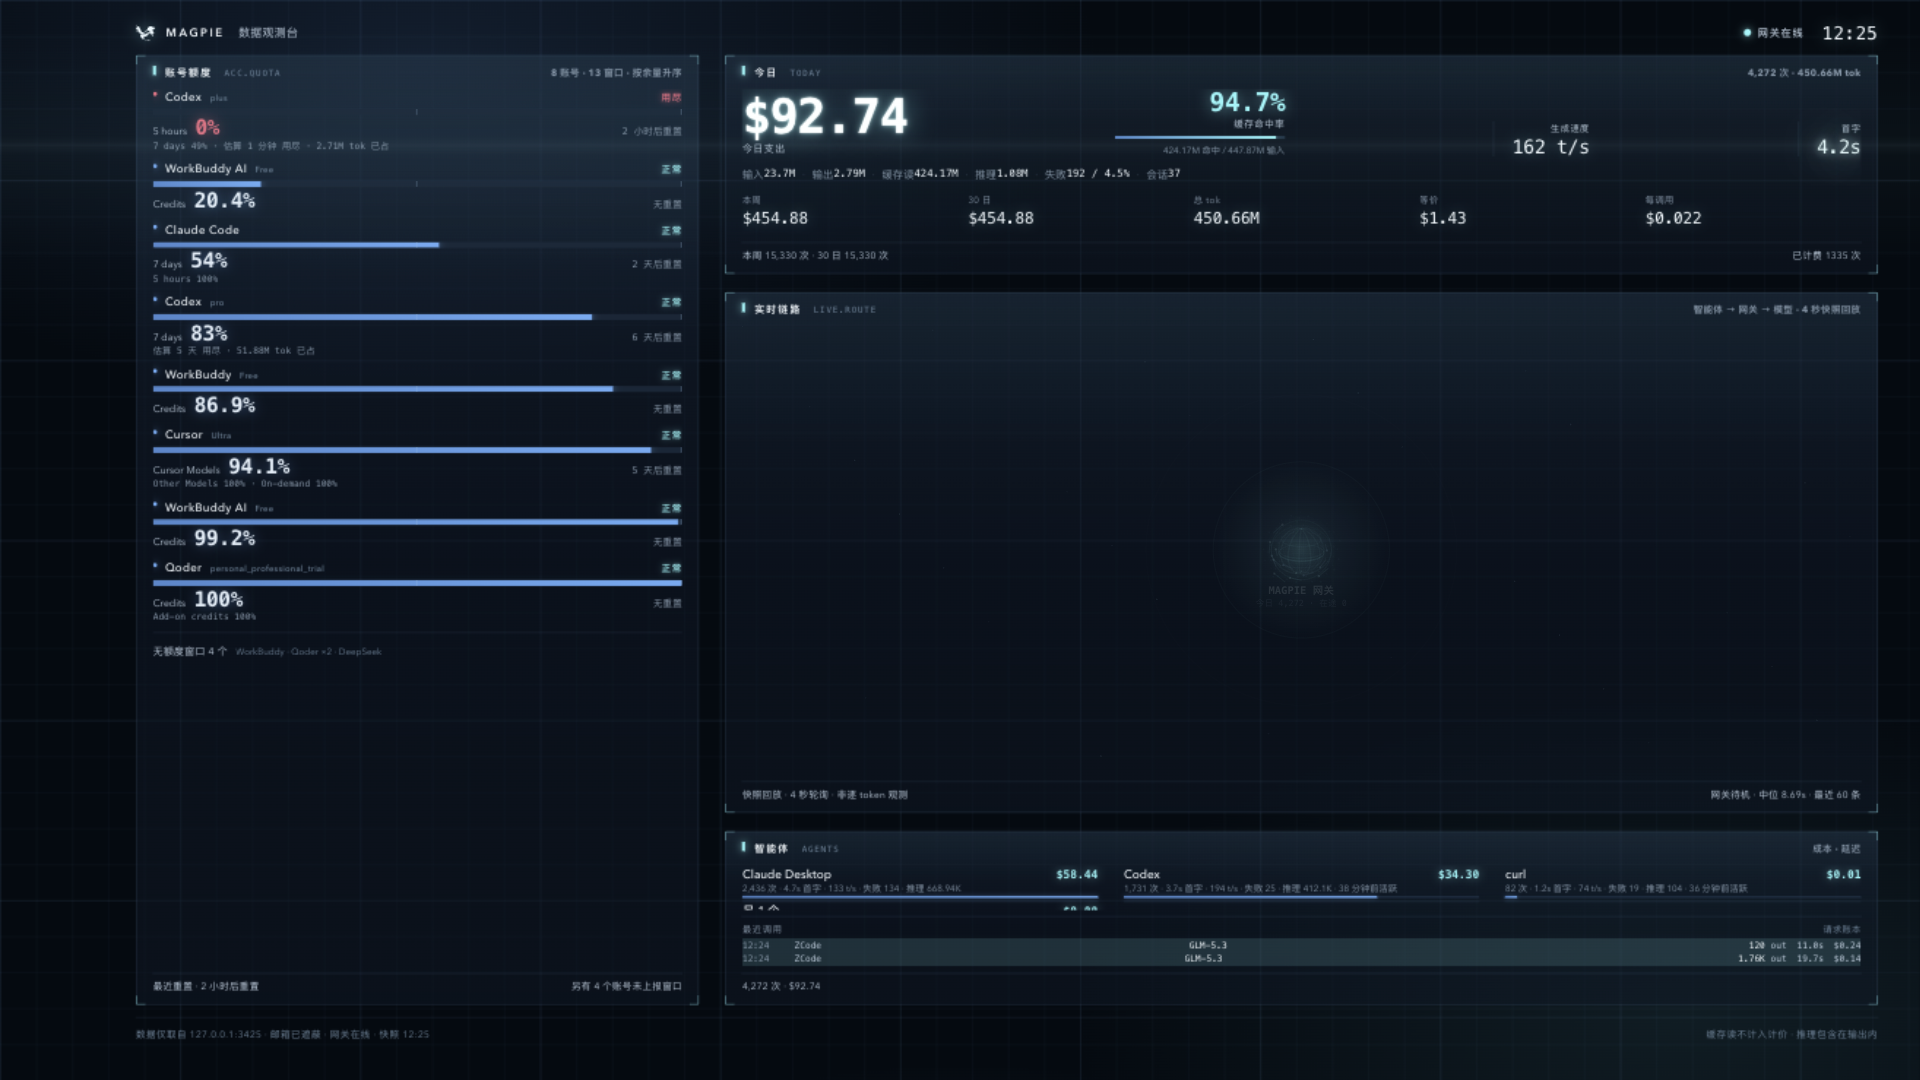
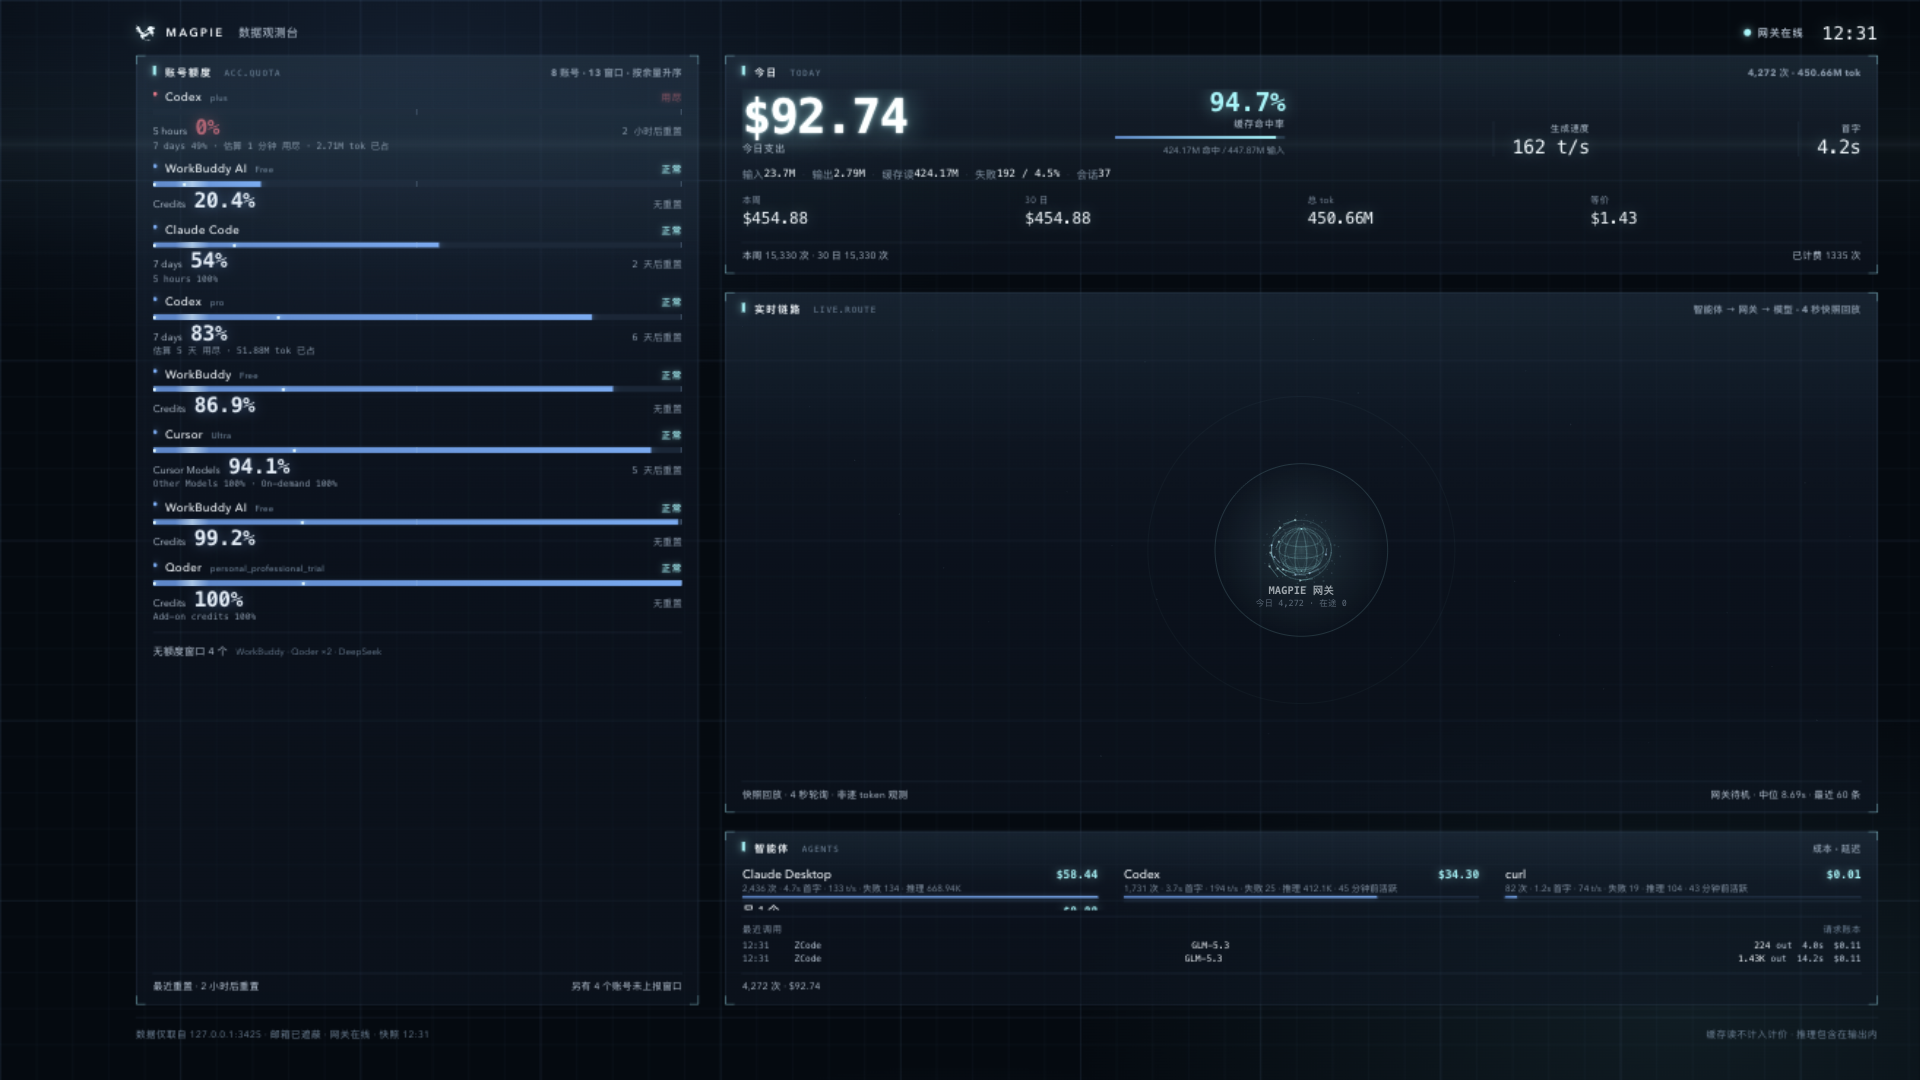
粒子荧光与降噪：燃料条电流粒子、节奏图火花与错误标记、网关铭牌

diff --git a/design/dashboard.js b/design/dashboard.js
@@ -132,9 +132,9 @@
     put('mini-speed', today.decode_ms ? Math.round(today.decode_out / (today.decode_ms / 1000)) + ' t/s' : '—');
     put('mini-ttft', today.timed ? (today.ttft_ms / today.timed / 1000).toFixed(1) + 's' : '—');
 
-    // 流程一行：只用一维读数，失败带比率。
+    // 流程一行：只用一维读数，失败带比率（推理含在输出内，不重复列）。
     const flow = [['输入', compact(today.input)], ['输出', compact(today.output)],
-                  ['缓存读', compact(today.cache_read)], ['推理', compact(today.reasoning)],
+                  ['缓存读', compact(today.cache_read)],
                   ['失败', integer(today.errors) + ' / ' + pct(share(today.errors, today.calls))],
                   ['会话', integer(today.sessionCount)]];
     $('flow').innerHTML = flow.map(([k, v]) => `${k} <b>${v}</b>`).join('<i>·</i>');
@@ -142,8 +142,7 @@
     const cells = [
       ['本周', money(week && week.cost)], ['30 日', money(month && month.cost)],
       ['总 tok', compact((today.input || 0) + (today.output || 0) + (today.cache_read || 0))],
-      ['等价', ds.length ? '$' + usd.toFixed(usd < 1 ? 3 : 2) : '—'],
-      ['每调用', today.calls ? '$' + (today.cost / today.calls).toFixed(3) : '—']
+      ['等价', ds.length ? '$' + usd.toFixed(usd < 1 ? 3 : 2) : '—']
     ];
     keyed($('cells'), cells, ([k]) => k,
       () => { const d = el('div'); d.append(el('span'), el('b')); return d; },
@@ -181,7 +180,9 @@
         const cur = i === hours.length - 1;
         node.style.height = Math.max(3, share(h.calls || 0, maxCalls)) + '%';
         node.className = cur ? 'cur' : ((h.calls || 0) ? '' : 'zero');
-        node.title = h.label + ' 时 · ' + integer(h.calls) + ' 次 · ' + money(h.cost);
+        if (h.errors) node.className = (cur ? 'cur' : '') + ' err';
+        node.title = h.label + ' 时 · ' + integer(h.calls) + ' 次 · ' + money(h.cost)
+          + (h.errors ? ' · 失败 ' + integer(h.errors) : '');
       });
     box.querySelector('.rhythm-head b').textContent = hours.length
       ? '峰值 ' + integer(peak.calls || 0) + ' 次 · ' + peak.label + ' 时'
@@ -243,7 +244,9 @@
         const head = el('h3');
         head.append(el('b'), el('i'), el('em'));
         const bar = el('div', 'q-bar');
-        bar.append(el('i'));
+        const fill = el('i');
+        fill.append(el('span', null), el('span', 'qp2'));   // 电流粒子
+        bar.append(fill);
         const main = el('div', 'q-main');
         main.append(el('b'), el('em'), el('span'));
         box.append(head, bar, main, el('div', 'q-sub'));
@@ -326,7 +329,7 @@
       !!nearest && (new Date(nearest.resetsAt) - Date.now()) / 60000 < 90);
     $('quota-foot2').textContent = noWin
       ? '另有 ' + noWin + ' 个账号未上报窗口'
-      : (fastest ? '最快燃尽 · ' + fastest.name + ' · 估算 ' + etaText(fastest.etaH) + ' 用尽' : '全部账号均已上报窗口');
+      : (fastest ? '最快燃尽 · ' + fastest.name + ' · 估算 ' + etaText(fastest.etaH) + ' 用尽' : '');
     $('quota-foot2').classList.toggle('soon', !noWin && !!fastest);
   }
 
@@ -1370,13 +1373,14 @@
 
   /* ── 主循环 ── */
   function paint(bundle) {
-    const { today, week, month, quotas, history, requests } = bundle;
+    const { today, week, month, quotas, history, requests, info } = bundle;
     renderToday(today, week, month);
     renderQuotas(quotas, history);
     renderAgents(today, readLive(bundle.trace));
     renderCalls(requests);
     renderRouteStage(bundle);
-    // 顶栏：网关状态灯 + 时钟；快照时间收进页脚。
+    // 顶栏：网关铭牌（版本 + 模型数）+ 状态灯 + 时钟。
+    $('gw-meta').textContent = info ? 'magpie v' + (info.version || '?') + ' · ' + (info.models || '?') + ' 模型' : '';
     $('gw-label').textContent = online ? '网关在线' : '网关离线';
     $('source-note').textContent = '数据仅取自 127.0.0.1:3425 · 邮箱已遮蔽 · ' +
       (online ? '网关在线' : '网关离线 · 保留上次数据') +
@@ -1386,7 +1390,7 @@
 
   async function refresh() {
     try {
-      const [today, week, month, quotas, trace, history, requests] = await Promise.all([
+      const [today, week, month, quotas, trace, history, requests, info] = await Promise.all([
         get('/v1/magpie/usage?period=today'),
         get('/v1/magpie/usage?period=7d'),
         get('/v1/magpie/usage?period=30d'),
@@ -1395,10 +1399,12 @@
         // 燃尽曲线数据：单独容错——拿不到只是少画一条线，不算离线。
         get('/v1/magpie/quotas/history').catch(() => null),
         // 请求账本：单独容错——拿不到只少两行明细。
-        get('/v1/magpie/usage/requests?period=today&limit=6').catch(() => null)
+        get('/v1/magpie/usage/requests?period=today&limit=6').catch(() => null),
+        // 网关铭牌（版本/模型数）：单独容错。
+        get('/').catch(() => null)
       ]);
       online = true;
-      lastGood = { today, week, month, quotas, trace, history, requests, at: Date.now() };
+      lastGood = { today, week, month, quotas, trace, history, requests, info, at: Date.now() };
       paint(lastGood);
     } catch (error) {
       online = false;

diff --git a/design/dashboard.css b/design/dashboard.css
@@ -155,6 +155,8 @@ header {
   min-width: 0;
 }
 
+.gw-meta { font-family: var(--mono); color: var(--dim2); font-size: 9.5px; letter-spacing: 0.04em; white-space: nowrap; overflow: hidden; text-overflow: ellipsis; min-width: 0; }
+
 /* 网关状态灯：在线青色常亮，离线红色常亮——光只表达状态，不空转 */
 .gw { display: inline-flex; align-items: center; gap: 7px; }
 .gw b { font-weight: 500; color: var(--muted); letter-spacing: 0.08em; }
@@ -383,8 +385,8 @@ main {
 .flow i { font-style: normal; margin: 0 7px; color: #2f4358; }
 .flow b { font-family: var(--mono); color: var(--ink); font-weight: 500; }
 
-/* 一行五个读数：本周 / 30 日 / 总 tok / 等价 / 每调用 */
-.cells { display: grid; grid-template-columns: repeat(5, minmax(0, 1fr)); gap: 10px; margin-top: 11px; }
+/* 一行四个读数：本周 / 30 日 / 总 tok / 等价 */
+.cells { display: grid; grid-template-columns: repeat(4, minmax(0, 1fr)); gap: 12px; margin-top: 11px; }
 .cells span { display: block; color: var(--dim); font-size: 9px; letter-spacing: 0.05em; margin-bottom: 2px; white-space: nowrap; overflow: hidden; text-overflow: ellipsis; }
 .cells b { font-family: var(--mono); font-size: 16px; font-weight: 500; letter-spacing: -0.015em; color: var(--ink); text-shadow: 0 0 12px rgba(111, 242, 255, 0.25); }
 
@@ -406,6 +408,7 @@ main {
   min-width: 2px;
   max-width: 14px;
   display: block;
+  position: relative;
   background: rgba(47, 127, 214, 0.4);
   border-top: 1px solid rgba(111, 242, 255, 0.35);
 }
@@ -413,7 +416,31 @@ main {
   background: linear-gradient(180deg, var(--live), rgba(47, 127, 214, 0.5));
   box-shadow: 0 0 8px rgba(111, 242, 255, 0.55);
 }
+/* 当前小时冒出的荧光火花：此刻有活动的小时才会「冒烟」 */
+.rhythm-bars i.cur::before,
+.rhythm-bars i.cur::after {
+  content: '';
+  position: absolute;
+  bottom: 100%;
+  left: 50%;
+  width: 2.5px;
+  height: 2.5px;
+  border-radius: 50%;
+  background: #dffcff;
+  box-shadow: 0 0 5px rgba(111, 242, 255, 0.95);
+  animation: rise 1.7s ease-out infinite;
+}
+.rhythm-bars i.cur::after { animation-delay: 0.85s; }
+@keyframes rise {
+  from { transform: translate(-50%, 1px); opacity: 0.95; }
+  to { transform: translate(-50%, -15px); opacity: 0; }
+}
 .rhythm-bars i.zero { background: rgba(47, 127, 214, 0.10); border-top-color: rgba(96, 158, 220, 0.18); }
+/* 出过错的小时：柱顶一段红，故障时段一眼可辨 */
+.rhythm-bars i.err {
+  background: linear-gradient(180deg, rgba(255, 122, 122, 0.65) 0 3px, rgba(47, 127, 214, 0.4) 3px);
+  border-top-color: rgba(255, 122, 122, 0.8);
+}
 
 /* 额度：左栏三分之一整列。账号之间留白，窗口之间只留一条细线，不靠边框分隔。 */
 .quota-mod { grid-row: 1 / -1; }
@@ -502,6 +529,27 @@ main {
   background: linear-gradient(90deg, transparent, rgba(220, 246, 255, 0.55), transparent);
   animation: glide 6s linear infinite;
 }
+/* 电流粒子：燃料条里两颗沿填充长度流动的荧光点——有余量才有电流，用尽的条是死的 */
+.q-bar i span {
+  position: absolute;
+  top: 50%;
+  margin-top: -1.5px;
+  left: 0;
+  width: 3px;
+  height: 3px;
+  border-radius: 50%;
+  background: #e4fdff;
+  box-shadow: 0 0 6px rgba(111, 242, 255, 0.95);
+  animation: qflow 3s linear infinite;
+}
+.q-bar i span.qp2 { animation-delay: 1.5s; }
+@keyframes qflow {
+  from { left: 0; opacity: 0; }
+  10% { opacity: 1; }
+  90% { opacity: 1; }
+  to { left: calc(100% - 3px); opacity: 0; }
+}
+.q-group.st-bad.gone .q-bar i span { display: none; }
 @keyframes glide {
   from { transform: translateX(-40px); }
   to { transform: translateX(400px); }

diff --git a/design/dashboard.html b/design/dashboard.html
@@ -11,6 +11,7 @@
   <header>
     <div class="brand"><img src="magpie-bird.svg" alt="">MAGPIE<em>数据观测台</em></div>
     <div class="meta">
+      <span class="gw-meta" id="gw-meta"></span>
       <span class="gw"><i class="led"></i><b id="gw-label">网关在线</b></span>
       <time class="clock" id="clock"></time>
     </div>
@@ -65,8 +66,7 @@
   <footer>
     <span id="source-note">数据仅取自 127.0.0.1:3425 · 邮箱已遮蔽</span>
     <span>缓存读不计入计价 · 推理包含在输出内</span>
-  </footer>
-</div>
+  </footer></div>
 <script src="dashboard.js"></script>
 </body>
 </html>
